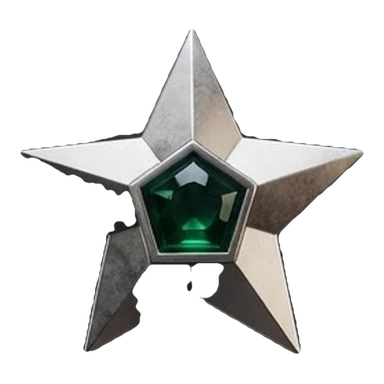
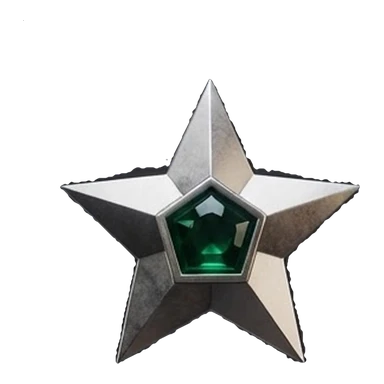
Re-cut the Primo sangue star with a stricter background match
Claude-Session: https://claude.ai/code/session_01T82HzswSGddkd4v84Vh2yp

Changed region(s): [[0.0312, 0.0625, 0.9688, 0.9688], [0.6875, 0.7812, 0.7188, 0.8438], [0.6562, 0.75, 0.6875, 0.7812]]

diff --git a/web/src/components/looks/Trophy3D.tsx b/web/src/components/looks/Trophy3D.tsx
@@ -8,7 +8,7 @@ const PICTURED = new Set<string>(["limit_breaker", "first_win", "all_rings", "lo
 /** A trophy as a 3D badge. The metal and shape are its own; the higher the rarity, the more it shines. */
 export function Trophy3D({ id, have, size = 56 }: { id: TrophyId; have: boolean; size?: number }) {
   if (PICTURED.has(id)) {
-    const src = `/trophies/${id}.webp?v=5`;
+    const src = `/trophies/${id}.webp?v=6`;
     // the sheen is a moving light clipped to the picture's own shape (its alpha) by a CSS mask
     return (
       <span class={`tr3dwrap ${have ? "lit" : ""}`} style={{ width: size, height: size, "--tm": `url(${src})` }}>
